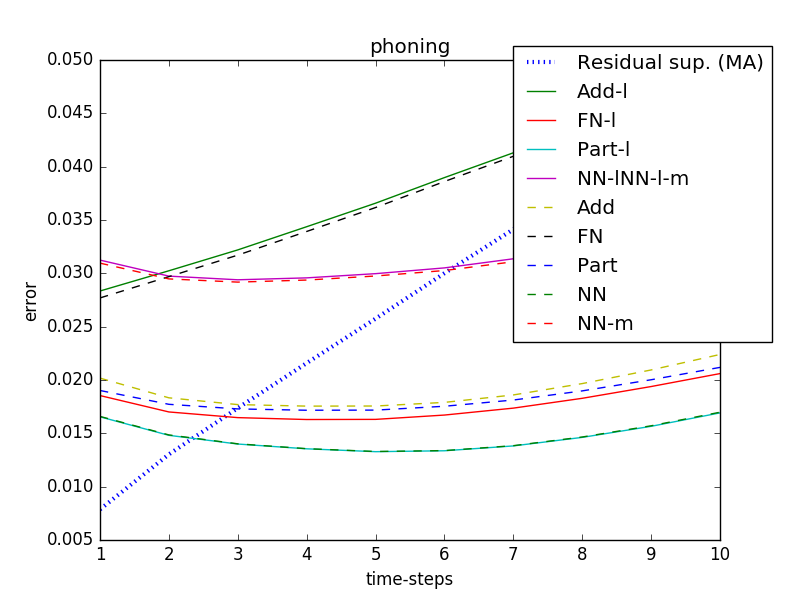
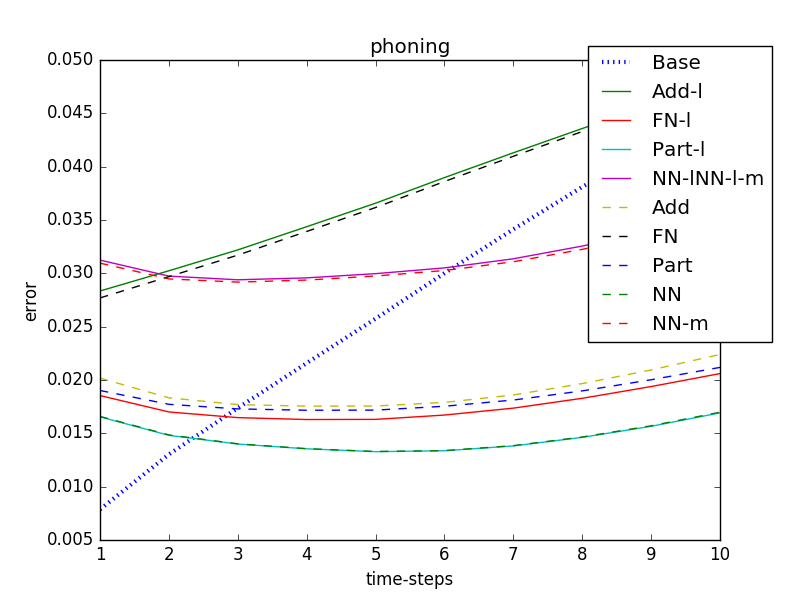
f

Changed region(s): [[0.625, 0.06, 0.9688, 0.57], [0.8125, 0.48, 0.875, 0.57], [0.6562, 0.57, 0.7188, 0.6]]

diff --git a/RNN/utils/metric_baselines.py b/RNN/utils/metric_baselines.py
@@ -140,7 +140,7 @@ def plot_results_npy(from_path, npy_files_dirs, method_names):
 					score_[j] = metrics.__pose_seq_error(pd_b, gt, cumulative=True)
 
 			if i == 0:
-				plt.plot(range(1,t+1), np.mean(score_, axis=0), label='Residual sup. (MA)', linestyle=':',linewidth=3)
+				plt.plot(range(1,t+1), np.mean(score_, axis=0), linestyle=':', linewidth=3, label='Base') #Residual sup. (MA)')
 			if i > len(method_names)/2-1:
 				plt.plot(range(1,t+1), np.mean(score, axis=0), label=method_names[i], linestyle='--')
 			else:
